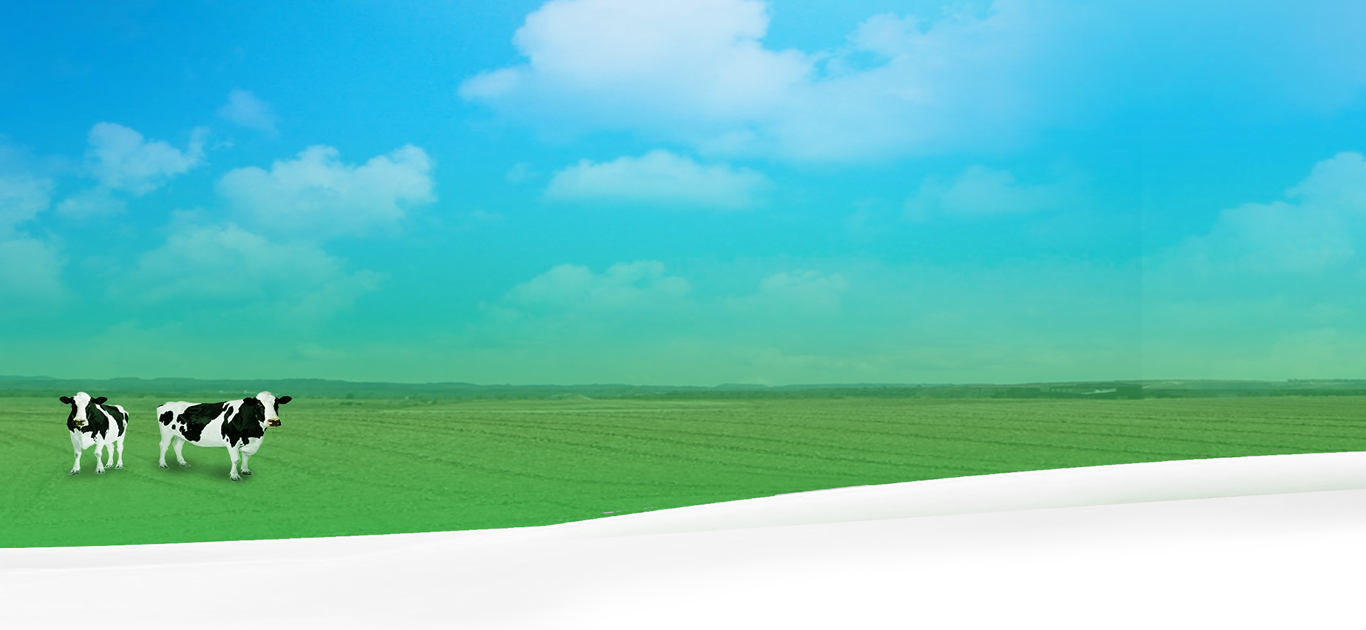
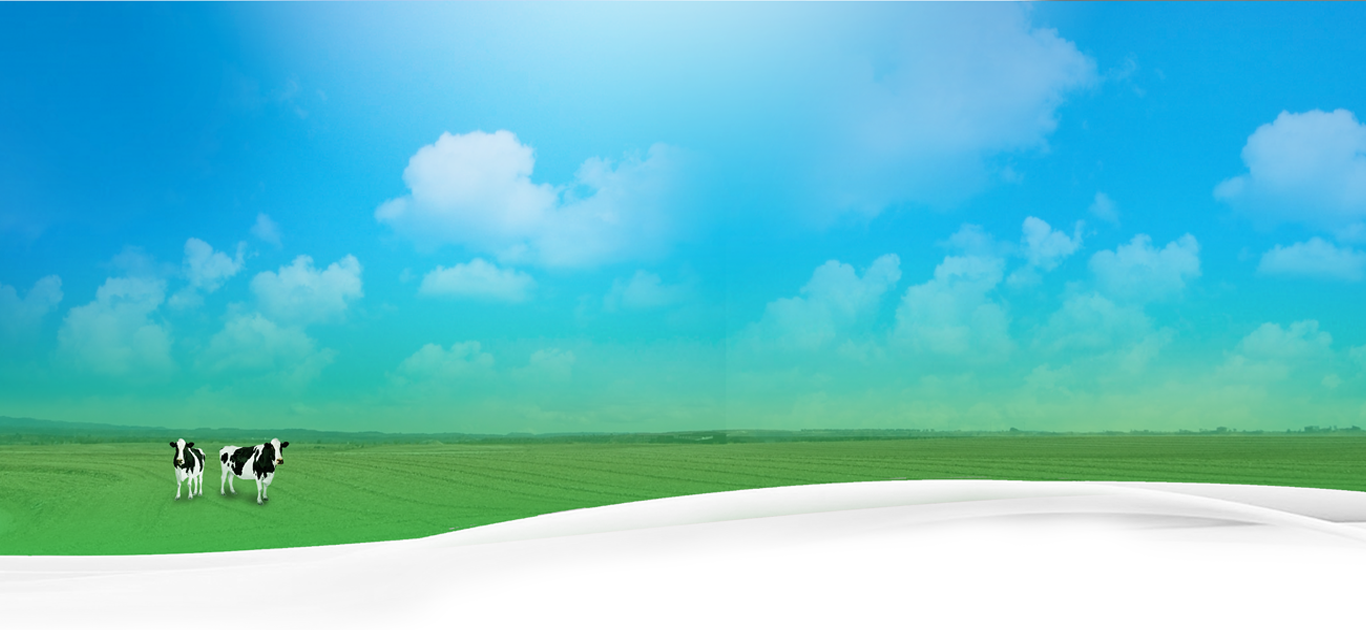
modificando

diff --git a/css/home.css b/css/home.css
@@ -1,1 +1,1 @@
-.socialtopo{position:relative;min-height:1px;padding-left:15px;padding-right:15px;position:relative}@media (min-width: 768px){.socialtopo{float:left;width:50%}}.socialtopo ul{margin-top:-45px}.socialtopo ul li{display:inline;list-style:none}.socialtopo ul li i{padding:5px;font-size:15px}.socialtopo ul li a{color:#fff}.socialtopo ul li a:hover{text-decoration:none}@media (max-width: 991px){.socialtopo{position:relative;min-height:1px;padding-left:15px;padding-right:15px;text-align:center;margin-top:-50px}}@media (max-width: 991px) and (min-width: 768px){.socialtopo{float:left;width:100%}}@media (max-width: 768px){.socialtopo{text-align:center;margin-top:-95px}}@media (max-width: 440px){.socialtopo strong{display:none}.socialtopo em{display:none}}.botoestopo{position:relative;min-height:1px;padding-left:15px;padding-right:15px;white-space:nowrap}.botoestopo .cotacao:hover,.botoestopo .cotacao:focus{background-color:#39b54a}.botoestopo .cotacao a{margin-left:10px;margin-right:10px}@media (min-width: 768px){.botoestopo{float:left;width:50%}}.botoestopo ul{margin-top:-45px;margin-left:200px}.botoestopo ul li{list-style:none;display:inline;margin-right:15px;border:solid 1px #fff;border-radius:25px;padding-top:6px;padding-bottom:6px}.botoestopo ul li:hover,.botoestopo ul li:active{background-color:#1e285c;border:solid 1px transparent;-webkit-transition:0.5s;-o-transition:0.5s;transition:0.5s}.botoestopo ul li:hover a,.botoestopo ul li:active a{text-decoration:none;color:#fff}.botoestopo a{margin-left:30px;margin-right:30px;color:#fff}@media (max-width: 768px){.botoestopo{text-align:center;margin-top:60px;margin-left:-180px}}@media (max-width: 440px){.botoestopo{margin-left:-210px}}header{min-height:630px;background-image:url("../images/slide.png");background-repeat:no-repeat;background-position:top center;background-size:cover;background-width:100%;background-height:100%;position:relative}.faixa{width:100%;height:60px;background-color:#fff;opacity:.1;filter:alpha(opacity=10);border-bottom:solid 1px;box-shadow:5px 3px 20px}@media (max-width: 991px){.faixa{height:100px}}.logo-slide{position:relative;min-height:1px;padding-left:15px;padding-right:15px}@media (min-width: 768px){.logo-slide{float:left;width:50%}}.logo-slide img{display:block;max-width:100%;height:auto;width:280px;margin-top:20px}.menu ul{list-style:none;margin-top:40px}.menu ul li a{padding:5px;color:#fff}.menu ul li a:hover{text-decoration:none;color:#1e285c;-webkit-transition:0.4s;-o-transition:0.4s;transition:0.4s}@media (max-width: 991px){.menu{display:none}}.menu-responsivo{position:fixed;width:150px;height:100%;left:-150px;top:0;background-color:#1e285c;background-image:-webkit-gradient(linear, 0deg, from(#8cc63f), to(#1e285c));background-image:-webkit-linear-gradient(0deg, #8cc63f, #1e285c);background-image:-moz-linear-gradient(0deg, #8cc63f, #1e285c);background-image:-ms-linear-gradient(0deg, #8cc63f, #1e285c);background-image:-o-linear-gradient(0deg, #8cc63f, #1e285c);background-image:linear-gradient(0deg, #8cc63f, #1e285c);filter:progid:DXImageTransform.Microsoft.gradient(GradientType=$angle,StartColorStr='#8cc63f', EndColorStr='#1e285c')}.menu-responsivo.ativo{left:0px}.menu-responsivo ul{list-style:none;margin-left:-38px}.menu-responsivo ul li a{padding:7px;display:block;color:#fff}.menu-responsivo ul li a:hover,.menu-responsivo ul li a:focus{-webkit-transition:0.2s;-o-transition:0.2s;transition:0.2s;text-decoration:none;background-color:#fff;color:#000}.layout.ativo{-webkit-transition:0.4s;-o-transition:0.4s;transition:0.4s;padding-left:150px}.toggle{margin-top:-35px;display:none}.toggle i{font-size:30px;color:#fff}@media (max-width: 991px){.toggle{position:relative;min-height:1px;padding-left:15px;padding-right:15px;display:inline;margin-top:30px}}@media (max-width: 991px) and (min-width: 768px){.toggle{float:left;width:100%}}@media (max-width: 768px){.toggle{margin-top:-40px;position:relative}}body div{font-family:open Sans}.chamada-slide{position:relative;min-height:1px;padding-left:15px;padding-right:15px}@media (min-width: 768px){.chamada-slide{float:left;width:50%}}.chamada-slide h1,.chamada-slide h2,.chamada-slide h3{color:#fff}.chamada-slide h1{margin-top:100px;margin-left:50px;font-size:40px;white-space:nowrap}@media (max-width: 991px){.chamada-slide h1{margin-left:0;text-align:center}}@media (max-width: 440px){.chamada-slide h1{font-size:30px}}.chamada-slide h2{margin-left:140px;margin-top:-10px;font-size:40px;white-space:nowrap}@media (max-width: 991px){.chamada-slide h2{margin-left:0;text-align:center}}@media (max-width: 440px){.chamada-slide h2{font-size:30px}}.chamada-slide h3{font-size:20px;margin-left:230px;margin-top:40px;white-space:nowrap}@media (max-width: 991px){.chamada-slide h3{margin-left:0;text-align:center}}@media (max-width: 440px){.chamada-slide h3{font-size:25px}}.chamada-slide h3 a{color:#fff;border:solid 1px #fff;border-radius:40px;padding:8px}.chamada-slide h3 a:hover,.chamada-slide h3 a:focus{text-decoration:none;background-color:#fff;color:#39b54a;-webkit-transition:0.5s;-o-transition:0.5s;transition:0.5s}.chamada-slide i{margin-right:10px;margin-left:10px}.logo-slide2{position:relative;min-height:1px;padding-left:15px;padding-right:15px}@media (min-width: 768px){.logo-slide2{float:left;width:50%}}.logo-slide2 img{display:block;max-width:100%;height:auto;width:1000px;margin:0 auto;padding-top:20px}main{min-height:630px;background-image:url("../images/fundo-conteudo.png");background-repeat:no-repeat;background-position:top center;background-size:cover;background-width:100%;background-height:100%;margin-top:-350px}main .conteudo-principal h3{position:relative;min-height:1px;padding-left:15px;padding-right:15px;color:#8cc63f}@media (min-width: 768px){main .conteudo-principal h3{float:left;width:33.33333%}}@media (min-width: 768px){main .conteudo-principal h3{margin-left:25%}}main .conteudo-principal h3 p{text-indent:40px}main .conteudo-principal h4{position:relative;min-height:1px;padding-left:15px;padding-right:15px;text-indent:420px;color:#000}@media (min-width: 768px){main .conteudo-principal h4{float:left;width:100%}}@media (max-width: 991px){main .conteudo-principal h3,main .conteudo-principal h4{position:relative;min-height:1px;padding-left:15px;padding-right:15px;text-align:center;text-indent:0px;margin-left:0px}}@media (max-width: 991px) and (min-width: 768px){main .conteudo-principal h3,main .conteudo-principal h4{float:left;width:100%}}@media (max-width: 768px){main .conteudo-principal{margin-top:400px}}main .vaca{position:relative;min-height:1px;padding-left:15px;padding-right:15px}@media (min-width: 768px){main .vaca{float:left;width:25%}}main .vaca img{margin-top:-320px;margin-left:-80px;width:350px}@media (max-width: 991px){main .vaca{position:relative;min-height:1px;padding-left:15px;padding-right:15px}}@media (max-width: 991px) and (min-width: 768px){main .vaca{float:left;width:100%}}@media (max-width: 991px){main .vaca img{display:block;max-width:100%;height:auto;margin:0 auto}}main .beneficio1,main .beneficio2,main .beneficio3{position:relative;min-height:1px;padding-left:15px;padding-right:15px;margin-top:20px}@media (min-width: 768px){main .beneficio1,main .beneficio2,main .beneficio3{float:left;width:25%}}main .beneficio1 img,main .beneficio2 img,main .beneficio3 img{width:40px}main .beneficio1 h2,main .beneficio2 h2,main .beneficio3 h2{color:#8cc63f;font-size:25px}main .beneficio1 h3,main .beneficio2 h3,main .beneficio3 h3{font-size:18px}@media (max-width: 991px){main .beneficio1,main .beneficio2,main .beneficio3{position:relative;min-height:1px;padding-left:15px;padding-right:15px}}@media (max-width: 991px) and (min-width: 768px){main .beneficio1,main .beneficio2,main .beneficio3{float:left;width:33.33333%}}@media (max-width: 768px){main .beneficio1,main .beneficio2,main .beneficio3{position:relative;min-height:1px;padding-left:15px;padding-right:15px}}@media (max-width: 768px) and (min-width: 768px){main .beneficio1,main .beneficio2,main .beneficio3{float:left;width:100%}}@media (max-width: 768px){main .beneficio1 img,main .beneficio2 img,main .beneficio3 img{width:80px;margin-left:43%}main .beneficio1 h2,main .beneficio1 h3,main .beneficio2 h2,main .beneficio2 h3,main .beneficio3 h2,main .beneficio3 h3{text-align:center}}@media (max-width: 440px){main .beneficio1 img,main .beneficio2 img,main .beneficio3 img{margin-left:40%}}main .copos img{width:105px;padding:10px}main .copos i img{width:100px;margin-top:30px;padding-right:40px}main .copos h3{color:#8cc63f;text-align:center}main .copo1,main .copo2,main .copo3,main .copo4{position:relative;min-height:1px;padding-left:15px;padding-right:15px}@media (min-width: 768px){main .copo1,main .copo2,main .copo3,main .copo4{float:left;width:25%}}main .copo1 img,main .copo2 img,main .copo3 img,main .copo4 img{display:block;max-width:100%;height:auto;margin:0 auto}main .copo1 img{margin-top:-80px}@media (max-width: 991px){main .copo1 img{margin-top:50px}}@media (max-width: 768px){main .copo1 img{margin-top:150px}}main .copo2 img{margin-top:-80px}@media (max-width: 991px){main .copo2 img{margin-top:50px}}main .copo3 img{margin-top:-80px}@media (max-width: 991px){main .copo3 img{margin-top:50px}}main .copo4 img{margin-top:-80px}@media (max-width: 991px){main .copo4 img{margin-top:50px}}main .flechas{margin-top:100px;position:relative;min-height:1px;padding-left:15px;padding-right:15px}@media (min-width: 768px){main .flechas{float:left;width:100%}}main .flechas img{display:block;max-width:100%;height:auto;width:100px;margin:0 auto}@media (max-width: 991px){main .flechas{display:none}}main .flecha1,main .flecha2,main .flecha3{position:relative;min-height:1px;padding-left:15px;padding-right:15px}@media (min-width: 768px){main .flecha1,main .flecha2,main .flecha3{float:left;width:33.33333%}}main .flecha1{padding-left:170px}main .flecha3{padding-right:170px}.botao-cotacao,.botao-noticias{position:relative;min-height:1px;padding-left:15px;padding-right:15px;text-align:center;margin-top:50px}@media (min-width: 768px){.botao-cotacao,.botao-noticias{float:left;width:50%}}.botao-cotacao a,.botao-noticias a{padding-top:5px;padding-bottom:5px;padding-left:130px;padding-right:130px;font-size:30px;border:solid 1px #000;box-shadow:10px 10px 20px #75797a;color:#000;white-space:nowrap}.botao-cotacao a:hover,.botao-noticias a:hover{-webkit-transition:0.4s;-o-transition:0.4s;transition:0.4s;text-decoration:none;background-color:#fdce12;color:#fff;border:none}@media (max-width: 991px){.botao-cotacao,.botao-noticias{position:relative;min-height:1px;padding-left:15px;padding-right:15px}}@media (max-width: 991px) and (min-width: 768px){.botao-cotacao,.botao-noticias{float:left;width:100%}}@media (max-width: 440px){.botao-cotacao a,.botao-noticias a{font-size:20px;padding-left:80px;padding-right:80px}}.botao-cotacao a{padding-left:80px;padding-right:80px}.botao-cotacao a:hover{background-color:#39b54a}@media (max-width: 440px){.botao-cotacao a{font-size:20px;padding-left:48px;padding-right:48px}}.parceiros{position:relative;min-height:1px;padding-left:15px;padding-right:15px;margin-top:60px;box-shadow:0px 3px 30px #75797a;background-color:#fff}@media (min-width: 768px){.parceiros{float:left;width:100%}}.parceiros img{display:block;max-width:100%;height:auto;display:inline;margin-top:30px;margin-bottom:30px;width:200px}.parceiros .parceiro1{margin-left:50px}@media (max-width: 991px){.parceiros img{width:130px}.parceiros .parceiro1{margin-left:0px}}@media (max-width: 768px){.parceiros img{display:block;max-width:100%;height:auto;margin:0 auto;width:300px;padding:20px}.parceiros .parceiro1{margin:0 auto}}footer{min-height:550px;background-image:url("../images/fundo-rodape2.png");background-repeat:no-repeat;background-position:top center;background-size:cover;background-width:100%;background-height:100%;margin-top:190px}@media (max-width: 768px){footer{margin-top:30px}}footer .rodape{position:relative;min-height:1px;padding-left:15px;padding-right:15px;text-align:center}@media (min-width: 768px){footer .rodape{float:left;width:100%}}footer .rodape h1{margin-top:50px;color:#8cc63f;font-size:35px}@media (max-width: 768px){footer .rodape h1{margin-top:0px}}footer .rodape h2{color:#000;font-size:20px;margin-bottom:50px}footer .rodape a{padding-top:5px;padding-bottom:8px;padding-left:30px;padding-right:30px;font-size:30px;border:solid 2px #8cc63f;border-radius:40px;color:#8cc63f;white-space:nowrap}footer .rodape a:hover{-webkit-transition:0.4s;-o-transition:0.4s;transition:0.4s;text-decoration:none;background-color:#39b54a;color:#fff;border:none}@media (max-width: 768px){footer .rodape a{font-size:20px}}footer .endereco{background-color:#39b54a;width:100%;height:95px;margin-top:60px}footer .endereco p{text-align:center;color:#fff;padding-top:30px;font-size:25px}@media (max-width: 768px){footer .endereco p{font-size:18px}}footer .menu-rodape ul{list-style:none;margin-top:70px}footer .menu-rodape ul li a{padding:5px;color:#1e285c}footer .menu-rodape ul li a:hover{text-decoration:none;color:#8cc63f}@media (max-width: 991px){footer .menu-rodape{position:relative;min-height:1px;padding-left:15px;padding-right:15px;text-align:center}}@media (max-width: 991px) and (min-width: 768px){footer .menu-rodape{float:left;width:100%}}footer .logo-rodape{position:relative;min-height:1px;padding-left:15px;padding-right:15px;margin-top:25px}@media (min-width: 768px){footer .logo-rodape{float:left;width:50%}}footer .logo-rodape img{display:block;max-width:100%;height:auto;width:280px;margin-top:20px}@media (max-width: 991px){footer .logo-rodape{position:relative;min-height:1px;padding-left:15px;padding-right:15px}}@media (max-width: 991px) and (min-width: 768px){footer .logo-rodape{float:left;width:100%}}@media (max-width: 991px){footer .logo-rodape img{display:block;max-width:100%;height:auto;margin:0 auto;padding-top:20px}}footer .social-rodape{position:relative;min-height:1px;padding-left:15px;padding-right:15px}@media (min-width: 768px){footer .social-rodape{float:left;width:25%}}@media (min-width: 768px){footer .social-rodape{margin-left:75%}}footer .social-rodape ul{margin-left:50px}footer .social-rodape ul li{display:inline;list-style:none}footer .social-rodape ul li i{padding:5px;font-size:20px}footer .social-rodape ul li a:hover{text-decoration:none}@media (max-width: 991px){footer .social-rodape{position:relative;min-height:1px;padding-left:15px;padding-right:15px;margin-left:0px;text-align:center}}@media (max-width: 991px) and (min-width: 768px){footer .social-rodape{float:left;width:100%}}@media (max-width: 991px){footer .social-rodape ul{margin-left:0px}footer .social-rodape ul li i{font-size:30px}}footer .social-rodape .youtube a{color:red}.vaca-feliz{position:relative;min-height:1px;padding-left:15px;padding-right:15px}@media (min-width: 768px){.vaca-feliz{float:left;width:25%}}@media (min-width: 768px){.vaca-feliz{margin-left:75%}}.vaca-feliz img{width:330px;margin-top:-714px}@media (max-width: 1200px){.vaca-feliz{margin-top:-12px}}@media (max-width: 991px){.vaca-feliz img{width:150px;margin-top:-150px;margin-left:50px}}@media (max-width: 768px){.vaca-feliz{display:none}}.leite{position:relative;min-height:1px;padding-left:15px;padding-right:15px}@media (min-width: 768px){.leite{float:left;width:25%}}.leite img{width:250px;margin-top:-700px}@media (max-width: 991px){.leite{display:none}}
+.socialtopo{position:relative;min-height:1px;padding-left:15px;padding-right:15px;position:relative}@media (min-width: 768px){.socialtopo{float:left;width:50%}}.socialtopo ul{margin-top:-35px;margin-left:-40px}.socialtopo ul li{display:inline;list-style:none}.socialtopo ul li i{padding:5px;font-size:15px}.socialtopo ul li a{color:#fff}.socialtopo ul li a:hover{text-decoration:none}@media (max-width: 991px){.socialtopo{position:relative;min-height:1px;padding-left:15px;padding-right:15px;text-align:center;margin-top:-50px}}@media (max-width: 991px) and (min-width: 768px){.socialtopo{float:left;width:100%}}@media (max-width: 768px){.socialtopo{text-align:center;margin-top:-95px}}@media (max-width: 440px){.socialtopo strong{display:none}.socialtopo span{display:none}}.botoestopo{position:relative;min-height:1px;padding-left:15px;padding-right:15px;white-space:nowrap}.botoestopo .cotacao:hover,.botoestopo .cotacao:focus{background-color:#2a7143}.botoestopo .cotacao a{margin-left:10px;margin-right:10px}@media (min-width: 768px){.botoestopo{float:left;width:50%}}.botoestopo ul{margin-top:-33px;margin-left:200px}.botoestopo ul li{list-style:none;display:inline;margin-right:15px;border-radius:20px;padding-top:6px;padding-bottom:6px;padding-left:10px;padding-right:10px;background-color:#39b54a}.botoestopo ul li:hover,.botoestopo ul li:active{background-color:#1e285c;-moz-transition:all 0.4s linear;-o-transition:all 0.4s linear;-webkit-transition:all 0.4s linear;transition:all 0.4s linear}.botoestopo ul li:hover a,.botoestopo ul li:active a{text-decoration:none;color:#fff}.botoestopo a{margin-left:30px;margin-right:30px;color:#fff;font-size:13px}@media (max-width: 768px){.botoestopo{text-align:center;margin-top:60px;margin-left:-180px}}@media (max-width: 440px){.botoestopo{margin-left:-210px}}.botoestopo .noticias{background-color:#1e285c}.botoestopo .noticias:hover{background-color:#3b5998}header{min-height:660px;min-width:1400px;background-image:url("../images/slide.png");background-repeat:no-repeat;background-position:top center;background-size:cover;background-width:100%;background-height:100%;position:relative}.faixa{width:100%;height:45px;background-color:#fff;opacity:.1;filter:alpha(opacity=10);border-bottom:solid 1px;box-shadow:5px 3px 20px}@media (max-width: 991px){.faixa{height:100px}}.logo-slide{position:relative;min-height:1px;padding-left:15px;padding-right:15px}@media (min-width: 768px){.logo-slide{float:left;width:50%}}.logo-slide img{display:block;max-width:100%;height:auto;width:320px;margin-top:33px}.menu ul{list-style:none;margin-top:50px;text-align:right;margin-right:35px}.menu ul li a{padding:3px;color:#fff;font-size:13px}.menu ul li a:hover{text-decoration:none;color:#1e285c;-moz-transition:all 0.4s linear;-o-transition:all 0.4s linear;-webkit-transition:all 0.4s linear;transition:all 0.4s linear}@media (max-width: 991px){.menu{display:none}}.menu-responsivo{position:fixed;width:150px;height:100%;left:-150px;top:0;background-color:#1e285c;background-image:-webkit-gradient(linear, 0deg, from(#2a7143), to(#1e285c));background-image:-webkit-linear-gradient(0deg, #2a7143, #1e285c);background-image:-moz-linear-gradient(0deg, #2a7143, #1e285c);background-image:-ms-linear-gradient(0deg, #2a7143, #1e285c);background-image:-o-linear-gradient(0deg, #2a7143, #1e285c);background-image:linear-gradient(0deg, #2a7143, #1e285c);filter:progid:DXImageTransform.Microsoft.gradient(GradientType=$angle,StartColorStr='#2a7143', EndColorStr='#1e285c')}.menu-responsivo.ativo{left:0px}.menu-responsivo ul{list-style:none;margin-left:-38px}.menu-responsivo ul li a{padding:7px;display:block;color:#fff}.menu-responsivo ul li a:hover,.menu-responsivo ul li a:focus{-moz-transition:all 0.2s linear;-o-transition:all 0.2s linear;-webkit-transition:all 0.2s linear;transition:all 0.2s linear;text-decoration:none;background-color:#fff;color:#000}.layout.ativo{-moz-transition:all 0.4s linear;-o-transition:all 0.4s linear;-webkit-transition:all 0.4s linear;transition:all 0.4s linear;padding-left:150px}.toggle{margin-top:-35px;display:none}.toggle i{font-size:30px;color:#fff}@media (max-width: 991px){.toggle{position:relative;min-height:1px;padding-left:15px;padding-right:15px;display:inline;margin-top:30px}}@media (max-width: 991px) and (min-width: 768px){.toggle{float:left;width:100%}}@media (max-width: 768px){.toggle{margin-top:-40px;position:relative}}body div{font-family:open Sans}.chamada-slide{position:relative;min-height:1px;padding-left:15px;padding-right:15px}@media (min-width: 768px){.chamada-slide{float:left;width:33.33333%}}.chamada-slide h1,.chamada-slide h2,.chamada-slide h3{color:#fff}.chamada-slide h1{margin-top:100px;margin-left:50px;font-size:40px;white-space:nowrap}@media (max-width: 991px){.chamada-slide h1{margin-left:0;text-align:center}}@media (max-width: 440px){.chamada-slide h1{font-size:30px}}.chamada-slide h2{margin-left:140px;margin-top:-10px;font-size:40px;white-space:nowrap}@media (max-width: 991px){.chamada-slide h2{margin-left:0;text-align:center}}@media (max-width: 440px){.chamada-slide h2{font-size:30px}}.chamada-slide h3{font-size:20px;margin-left:200px;margin-top:40px;white-space:nowrap}@media (max-width: 991px){.chamada-slide h3{margin-left:0;text-align:center}}@media (max-width: 440px){.chamada-slide h3{font-size:25px}}.chamada-slide h3 a{color:#fff;border:solid 2px #fff;border-radius:40px;padding-top:11px;padding-bottom:11px;padding-left:20px;padding-right:20px;font-size:16px}.chamada-slide h3 a:hover,.chamada-slide h3 a:focus{text-decoration:none;background-color:#fff;color:#39b54a;-moz-transition:all 0.5s linear;-o-transition:all 0.5s linear;-webkit-transition:all 0.5s linear;transition:all 0.5s linear}.chamada-slide i{margin-right:10px;margin-left:10px}.logo-slide2{position:relative;min-height:1px;padding-left:15px;padding-right:15px}@media (min-width: 768px){.logo-slide2{float:left;width:66.66667%}}.logo-slide2 img{display:block;max-width:100%;height:auto;margin-left:150px;width:600px;padding-top:20px}@media (max-width: 768px){.logo-slide2 img{display:block;max-width:100%;height:auto;margin:0 auto;padding:0}}main{min-height:630px;background-image:url("../images/fundo-conteudo.png");background-repeat:no-repeat;background-position:top center;background-size:cover;background-width:100%;background-height:100%;margin-top:-350px}main .conteudo-principal h3{position:relative;min-height:1px;padding-left:15px;padding-right:15px;color:#8cc63f;margin-left:370px;margin-top:-35px}@media (min-width: 768px){main .conteudo-principal h3{float:left;width:33.33333%}}main .conteudo-principal h3 p{text-indent:40px}main .conteudo-principal h4{position:relative;min-height:1px;padding-left:15px;padding-right:15px;margin-left:480px;margin-top:-15px;color:#000}@media (min-width: 768px){main .conteudo-principal h4{float:left;width:100%}}main .conteudo-principal h4 p{padding-top:5px}@media (max-width: 991px){main .conteudo-principal h3,main .conteudo-principal h4{position:relative;min-height:1px;padding-left:15px;padding-right:15px;text-align:center;text-indent:0px;margin-left:0px}}@media (max-width: 991px) and (min-width: 768px){main .conteudo-principal h3,main .conteudo-principal h4{float:left;width:100%}}@media (max-width: 768px){main .conteudo-principal{margin-top:400px}}main .vaca{position:relative;min-height:1px;padding-left:15px;padding-right:15px}@media (min-width: 768px){main .vaca{float:left;width:25%}}main .vaca img{margin-top:-245px;margin-left:10px;width:300px}@media (max-width: 991px){main .vaca{position:relative;min-height:1px;padding-left:15px;padding-right:15px}}@media (max-width: 991px) and (min-width: 768px){main .vaca{float:left;width:100%}}@media (max-width: 991px){main .vaca img{display:block;max-width:100%;height:auto;margin:0 auto}}main .beneficio1,main .beneficio2,main .beneficio3{position:relative;min-height:1px;padding-left:15px;padding-right:15px;margin-top:20px}@media (min-width: 768px){main .beneficio1,main .beneficio2,main .beneficio3{float:left;width:25%}}main .beneficio1 img,main .beneficio2 img,main .beneficio3 img{width:40px}main .beneficio1 h2,main .beneficio2 h2,main .beneficio3 h2{color:#8cc63f;font-size:20px}main .beneficio1 h3,main .beneficio2 h3,main .beneficio3 h3{font-size:15px;margin-top:0px;color:#000}main .beneficio1 span,main .beneficio2 span,main .beneficio3 span{font-size:15px;margin-top:-5px;color:#000}@media (max-width: 991px){main .beneficio1,main .beneficio2,main .beneficio3{position:relative;min-height:1px;padding-left:15px;padding-right:15px}}@media (max-width: 991px) and (min-width: 768px){main .beneficio1,main .beneficio2,main .beneficio3{float:left;width:33.33333%}}@media (max-width: 768px){main .beneficio1,main .beneficio2,main .beneficio3{position:relative;min-height:1px;padding-left:15px;padding-right:15px}}@media (max-width: 768px) and (min-width: 768px){main .beneficio1,main .beneficio2,main .beneficio3{float:left;width:100%}}@media (max-width: 768px){main .beneficio1 img,main .beneficio2 img,main .beneficio3 img{width:80px;margin-left:43%}main .beneficio1 h2,main .beneficio1 h3,main .beneficio2 h2,main .beneficio2 h3,main .beneficio3 h2,main .beneficio3 h3{text-align:center}}@media (max-width: 440px){main .beneficio1 img,main .beneficio2 img,main .beneficio3 img{margin-left:40%}}main .beneficio1{margin-left:100px}main .beneficio2{margin-left:-50px}main .beneficio3{margin-left:-50px}main .copos img{width:105px;padding:10px}main .copos i img{width:100px;margin-top:30px;padding-right:40px}main .copos h3{color:#2a7143;text-align:center}main .copo1,main .copo2,main .copo3,main .copo4{position:relative;min-height:1px;padding-left:15px;padding-right:15px}@media (min-width: 768px){main .copo1,main .copo2,main .copo3,main .copo4{float:left;width:25%}}main .copo1 img,main .copo2 img,main .copo3 img,main .copo4 img{display:block;max-width:100%;height:auto;margin:0 auto}main .copo1 img{margin-top:-80px}@media (max-width: 991px){main .copo1 img{margin-top:50px}}@media (max-width: 768px){main .copo1 img{margin-top:150px}}main .copo2 img{margin-top:-80px}@media (max-width: 991px){main .copo2 img{margin-top:50px}}main .copo3 img{margin-top:-80px}@media (max-width: 991px){main .copo3 img{margin-top:50px}}main .copo4 img{margin-top:-80px}@media (max-width: 991px){main .copo4 img{margin-top:50px}}main .flechas{margin-top:100px;position:relative;min-height:1px;padding-left:15px;padding-right:15px}@media (min-width: 768px){main .flechas{float:left;width:100%}}main .flechas img{display:block;max-width:100%;height:auto;width:100px;margin:0 auto}@media (max-width: 991px){main .flechas{display:none}}main .flecha1,main .flecha2,main .flecha3{position:relative;min-height:1px;padding-left:15px;padding-right:15px}@media (min-width: 768px){main .flecha1,main .flecha2,main .flecha3{float:left;width:33.33333%}}main .flecha1{padding-left:170px}main .flecha3{padding-right:170px}.botao-cotacao,.botao-noticias{position:relative;min-height:1px;padding-left:15px;padding-right:15px;text-align:center;margin-top:50px}@media (min-width: 768px){.botao-cotacao,.botao-noticias{float:left;width:50%}}.botao-cotacao a,.botao-noticias a{padding-top:5px;padding-bottom:5px;padding-left:130px;padding-right:130px;font-size:30px;border:solid 1px #000;box-shadow:10px 10px 20px #75797a;color:#000;white-space:nowrap}.botao-cotacao a:hover,.botao-noticias a:hover{-moz-transition:all 0.4s linear;-o-transition:all 0.4s linear;-webkit-transition:all 0.4s linear;transition:all 0.4s linear;text-decoration:none;background-color:#fdce12;color:#fff;border:none}@media (max-width: 991px){.botao-cotacao,.botao-noticias{position:relative;min-height:1px;padding-left:15px;padding-right:15px}}@media (max-width: 991px) and (min-width: 768px){.botao-cotacao,.botao-noticias{float:left;width:100%}}@media (max-width: 440px){.botao-cotacao a,.botao-noticias a{font-size:20px;padding-left:80px;padding-right:80px}}.botao-cotacao a{padding-left:80px;padding-right:80px}.botao-cotacao a:hover{background-color:#39b54a}@media (max-width: 440px){.botao-cotacao a{font-size:20px;padding-left:48px;padding-right:48px}}.parceiros{position:relative;min-height:1px;padding-left:15px;padding-right:15px;margin-top:60px;box-shadow:0px 3px 30px #75797a;background-color:#fff}@media (min-width: 768px){.parceiros{float:left;width:100%}}.parceiros img{display:block;max-width:100%;height:auto;display:inline;margin-top:30px;margin-bottom:30px;width:200px}.parceiros .parceiro1{margin-left:50px}@media (max-width: 991px){.parceiros img{width:130px}.parceiros .parceiro1{margin-left:0px}}@media (max-width: 768px){.parceiros img{display:block;max-width:100%;height:auto;margin:0 auto;width:300px;padding:20px}.parceiros .parceiro1{margin:0 auto}}footer{min-height:550px;background-image:url("../images/fundo-rodape2.png");background-repeat:no-repeat;background-position:top center;background-size:cover;background-width:100%;background-height:100%;margin-top:190px}@media (max-width: 768px){footer{margin-top:30px}}footer .rodape{position:relative;min-height:1px;padding-left:15px;padding-right:15px;text-align:center}@media (min-width: 768px){footer .rodape{float:left;width:100%}}footer .rodape h1{margin-top:50px;color:#2a7143;font-size:35px}@media (max-width: 768px){footer .rodape h1{margin-top:0px}}footer .rodape h2{color:#000;font-size:20px;margin-bottom:50px}footer .rodape a{padding-top:5px;padding-bottom:8px;padding-left:30px;padding-right:30px;font-size:30px;border:solid 2px #2a7143;border-radius:40px;color:#2a7143;white-space:nowrap}footer .rodape a:hover{-moz-transition:all 0.4s linear;-o-transition:all 0.4s linear;-webkit-transition:all 0.4s linear;transition:all 0.4s linear;text-decoration:none;background-color:#39b54a;color:#fff;border:none}@media (max-width: 768px){footer .rodape a{font-size:20px}}footer .endereco{background-color:#39b54a;width:100%;height:95px;margin-top:60px}footer .endereco p{text-align:center;color:#fff;padding-top:30px;font-size:25px}@media (max-width: 768px){footer .endereco p{font-size:18px}}footer .menu-rodape ul{list-style:none;margin-top:70px}footer .menu-rodape ul li a{padding:5px;color:#1e285c}footer .menu-rodape ul li a:hover{text-decoration:none;color:#2a7143}@media (max-width: 991px){footer .menu-rodape{position:relative;min-height:1px;padding-left:15px;padding-right:15px;text-align:center}}@media (max-width: 991px) and (min-width: 768px){footer .menu-rodape{float:left;width:100%}}footer .logo-rodape{position:relative;min-height:1px;padding-left:15px;padding-right:15px;margin-top:25px}@media (min-width: 768px){footer .logo-rodape{float:left;width:50%}}footer .logo-rodape img{display:block;max-width:100%;height:auto;width:280px;margin-top:20px}@media (max-width: 991px){footer .logo-rodape{position:relative;min-height:1px;padding-left:15px;padding-right:15px}}@media (max-width: 991px) and (min-width: 768px){footer .logo-rodape{float:left;width:100%}}@media (max-width: 991px){footer .logo-rodape img{display:block;max-width:100%;height:auto;margin:0 auto;padding-top:20px}}footer .social-rodape{position:relative;min-height:1px;padding-left:15px;padding-right:15px}@media (min-width: 768px){footer .social-rodape{float:left;width:25%}}@media (min-width: 768px){footer .social-rodape{margin-left:75%}}footer .social-rodape ul{margin-left:50px}footer .social-rodape ul li{display:inline;list-style:none}footer .social-rodape ul li i{padding:5px;font-size:20px}footer .social-rodape ul li a:hover{text-decoration:none}@media (max-width: 991px){footer .social-rodape{position:relative;min-height:1px;padding-left:15px;padding-right:15px;margin-left:0px;text-align:center}}@media (max-width: 991px) and (min-width: 768px){footer .social-rodape{float:left;width:100%}}@media (max-width: 991px){footer .social-rodape ul{margin-left:0px}footer .social-rodape ul li i{font-size:30px}}footer .social-rodape .youtube a{color:red}.vaca-feliz{position:relative;min-height:1px;padding-left:15px;padding-right:15px}@media (min-width: 768px){.vaca-feliz{float:left;width:25%}}@media (min-width: 768px){.vaca-feliz{margin-left:75%}}.vaca-feliz img{width:330px;margin-top:-714px}@media (max-width: 1200px){.vaca-feliz{margin-top:-12px}}@media (max-width: 991px){.vaca-feliz img{width:150px;margin-top:-150px;margin-left:50px}}@media (max-width: 768px){.vaca-feliz{display:none}}.leite{position:relative;min-height:1px;padding-left:15px;padding-right:15px}@media (min-width: 768px){.leite{float:left;width:25%}}.leite img{width:250px;margin-top:-700px}@media (max-width: 991px){.leite{display:none}}

diff --git a/index.html b/index.html
@@ -40,10 +40,10 @@
 							<a href=""><i class="fa fa-twitter-square" aria-hidden="true"></i></a>
 						</li>
 						<li>
-							<a href=""><i class="fa fa-phone-square" aria-hidden="true"></i><em>(45)<strong>2031-0900</strong></em></a>
+							<a href=""><i class="fa fa-phone-square" aria-hidden="true"></i><span>(45) <strong>2031-0900</strong></span></a>
 						</li>
 						<li>
-							<a href=""><i class="fa fa-envelope-square" aria-hidden="true"></i><strong>sac</strong><em>@agpgroup.com.br</em></a>
+							<a href=""><i class="fa fa-envelope-square" aria-hidden="true"></i><strong>sac</strong><span>@agpgroup.com.br</span></a>
 						</li>
 					</ul>
 				</div>
@@ -82,7 +82,7 @@
 				<div class="chamada-slide">
 					<h1>Lorem ipsudolor</h1>
 					<h2><strong>consectetur</strong> adipis</h2>
-					<h3><a href=""><i class="fa fa-info-circle" aria-hidden="true"></i>loren Ipsum Dolor</a></h3>	
+					<h3><a href=""><i class="fa fa-info-circle" aria-hidden="true"></i>Loren Ipsum Dolor</a></h3>	
 				</div>
 				<div class="logo-slide2 wow bounceInRight" data-wow-duration="2s" data-wow-delay="0.5s">
 					<img src="images/logo-slide2.png" alt="Logo">
@@ -102,17 +102,17 @@
 					<div class="beneficio1">
 						<img src="images/icone-leite-verde.png" alt=""><br>
 						<h2>Lorem ipsum</h2>
-						<h3>Lorem ipsum dolor sit amet, consecteur adipiscing elit.</h3>
+						<h3>Lorem ipsum dolor sit amet,</h3> <span>consecteur adipiscing elit.</span>
 					</div>
 					<div class="beneficio2">
 						<img src="images/icone-leite-azul.png" alt=""><br>
 						<h2>Lorem ipsum</h2>
-						<h3>Lorem ipsum dolor sit amet, consecteur adipiscing elit.</h3>
+						<h3>Lorem ipsum dolor sit amet,</h3> <span>consecteur adipiscing elit.</span>
 					</div>
 					<div class="beneficio3">
 						<img src="images/icone-leite-verde.png" alt=""><br>
 						<h2>Lorem ipsum</h2>
-						<h3>Lorem ipsum dolor sit amet, consecteur adipiscing elit.</h3>
+						<h3>Lorem ipsum dolor sit amet,</h3> <span>consecteur adipiscing elit.</span>
 					</div>
 				</div>
 				<div class="flechas">

diff --git a/sass/page/_topo.sass b/sass/page/_topo.sass
@@ -3,7 +3,8 @@
 .socialtopo
 	+make-sm-column(6)
 	ul 
-		margin-top: -45px
+		margin-top: -35px
+		margin-left: -40px
 		li
 			display: inline 
 			list-style: none
@@ -25,39 +26,36 @@
 	+breakpoint($celular)
 		strong
 			display: none	
-		em 
+		span
 			display: none			
-
-
-
-
 
 
 .botoestopo
 	.cotacao 
 		&:hover,
 		&:focus 
-			background-color: $verde-escuro
+			background-color: $verde
 		a 
 			margin-left: 10px
 			margin-right: 10px	
 	+make-sm-column(6)
 	ul 
-		margin-top: -45px
+		margin-top: -33px
 		margin-left: 200px
 		li 
 			list-style: none
 			display: inline
 			margin-right: 15px
-			border: solid 1px $branco
-			border-radius: 25px
+			border-radius: 20px
 			padding-top: 6px
 			padding-bottom: 6px
+			padding-left: 10px
+			padding-right: 10px
+			background-color: $verde-escuro
 			&:hover,
 			&:active
 				background-color: $azul
-				border: solid 1px transparent
-				+transition(.5s)
+				+transition(.4s)
 				a
 					text-decoration: none
 					color: $branco
@@ -65,6 +63,7 @@
 		margin-left: 30px
 		margin-right: 30px
 		color: $branco
+		font-size: 13px
 	white-space: nowrap
 	+breakpoint($celubot)
 		text-align: center
@@ -74,7 +73,10 @@
 		margin-left: -210px	
 
 	
-			
+	.noticias
+		background-color: $azul		
+		&:hover
+			background-color: $azul-claro
 
 	
 

diff --git a/sass/page/_conteudo-principal.sass b/sass/page/_conteudo-principal.sass
@@ -12,14 +12,19 @@ main
 	.conteudo-principal
 		h3 
 			+make-sm-column(4)
-			+make-sm-column-offset(3)
-			color: $verde
+			color: $verde-logo
+			margin-left: 370px
+			margin-top: -35px
+
 			p 
 				text-indent: 40px
 		h4	
 			+make-sm-column(12)
-			text-indent: 420px
+			margin-left: 480px
+			margin-top: -15px
 			color: $preto
+			p 
+				padding-top: 5px
 		+breakpoint($tablet)
 			h3,
 			h4
@@ -33,9 +38,9 @@ main
 	.vaca 
 		+make-sm-column(3)	
 		img
-			margin-top: -320px
-			margin-left: -80px
-			width: 350px
+			margin-top: -245px
+			margin-left: 10px
+			width: 300px
 		+breakpoint($tablet)
 			+make-sm-column(12)	
 			img 
@@ -48,10 +53,16 @@ main
 		img 
 			width: 40px
 		h2 	
-			color: $verde
-			font-size: 25px
+			color: $verde-logo
+			font-size: 20px
 		h3 
-			font-size: 18px	
+			font-size: 15px	
+			margin-top: 0px
+			color: $preto
+		span 
+			font-size: 15px
+			margin-top: -5px
+			color: $preto
 		margin-top: 20px	
 		+breakpoint($tablet)
 			+make-sm-column(4)
@@ -66,6 +77,15 @@ main
 		+breakpoint($celular)
 			img 
 				margin-left: 40%		
+	.beneficio1
+		margin-left: 100px
+	.beneficio2 
+		margin-left: -50px
+	.beneficio3	
+		margin-left: -50px
+
+
+
 
 	.copos
 		img 

diff --git a/sass/page/_conteudo-slide.sass b/sass/page/_conteudo-slide.sass
@@ -3,7 +3,7 @@ body
 		font-family: open Sans
 
 .chamada-slide
-	+make-sm-column(6)
+	+make-sm-column(4)
 	h1,
 	h2, 
 	h3
@@ -30,7 +30,7 @@ body
 			font-size: 30px	
 	h3	
 		font-size: 20px
-		margin-left: 230px
+		margin-left: 200px
 		margin-top: 40px	
 		white-space: nowrap
 		+breakpoint($tablet)
@@ -40,9 +40,13 @@ body
 			font-size: 25px	
 		a
 			color: $branco
-			border: solid 1px $branco
+			border: solid 2px $branco
 			border-radius: 40px
-			padding: 8px
+			padding-top: 11px
+			padding-bottom: 11px
+			padding-left: 20px
+			padding-right: 20px 
+			font-size: 16px
 			&:hover,
 			&:focus
 				text-decoration: none
@@ -55,10 +59,16 @@ body
 
 
 .logo-slide2
-	+make-sm-column(6)		
+	+make-sm-column(8)		
 	img 
 		+img-responsive
-		width: 1000px	
-		margin: 0 auto	
+		margin-left: 150px
+		width: 600px
 		padding-top: 20px
+
+		+breakpoint($celubot)
+			+img-responsive
+			margin: 0 auto
+			padding: 0
+
 	

diff --git a/sass/page/_mixins.sass b/sass/page/_mixins.sass
@@ -5,15 +5,23 @@ $pc: max-width 1200px
 
 $branco: #fff
 $preto: black
-$verde: #8cc63f
+$verde: #2a7143
 $verde-escuro: #39b54a
+$verde-logo: #8cc63f
 $azul: #1e285c
+$azul-claro: #3b5998
 $amarelo: #fdce12
 $sombra: #75797a
 $vermelho: red
 
 $open: 300
 $bold: 800
+
+=transition($transition...) 
+  -moz-transition:    all $transition linear
+  -o-transition:      all $transition linear
+  -webkit-transition: all $transition linear
+  transition:         all $transition linear
 
 =gradient($angle,$gradient1, $gradient2)
   background-color: $gradient2 

diff --git a/sass/page/_slide.sass b/sass/page/_slide.sass
@@ -1,6 +1,7 @@
 
 header
-	min-height: 630px	
+	min-height: 660px	
+	min-width: 1400px
 	background:
 		image: url('../images/slide.png') 
 		repeat: no-repeat
@@ -11,7 +12,7 @@ header
 	position: relative
 .faixa
 	width: 100%
-	height: 60px
+	height: 45px
 	background-color: $branco
 	+opacity(.1)
 	border-bottom: solid 1px

diff --git a/sass/page/_menu-responsivo.sass b/sass/page/_menu-responsivo.sass
@@ -2,11 +2,14 @@
 .menu
 	ul 
 		list-style: none
-		margin-top: 40px
+		margin-top: 50px
+		text-align: right 
+		margin-right: 35px
 		li 
 			a 
-				padding: 5px
+				padding: 3px
 				color: $branco
+				font-size: 13px
 				&:hover
 					text-decoration: none
 					color: $azul

diff --git a/sass/page/_logo-slide.sass b/sass/page/_logo-slide.sass
@@ -3,7 +3,7 @@
 	+make-sm-column(6)
 	img 
 		+img-responsive
-		width: 280px
-		margin-top: 20px
+		width: 320px
+		margin-top: 33px
 	
 		
